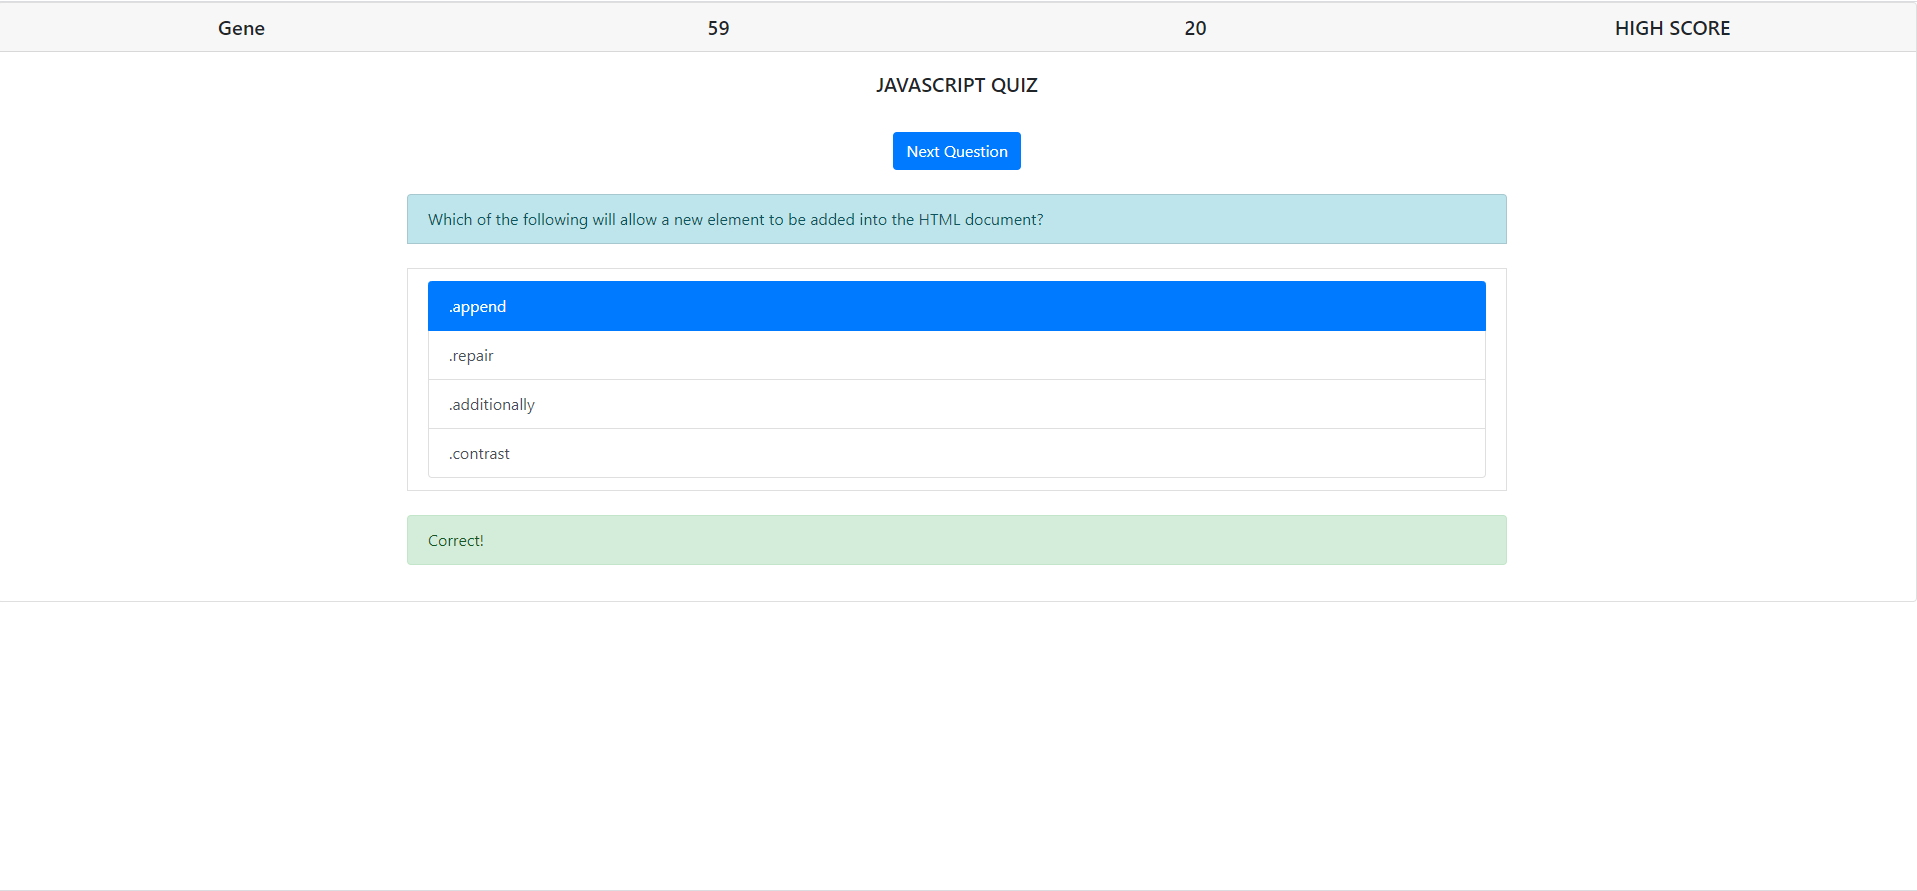
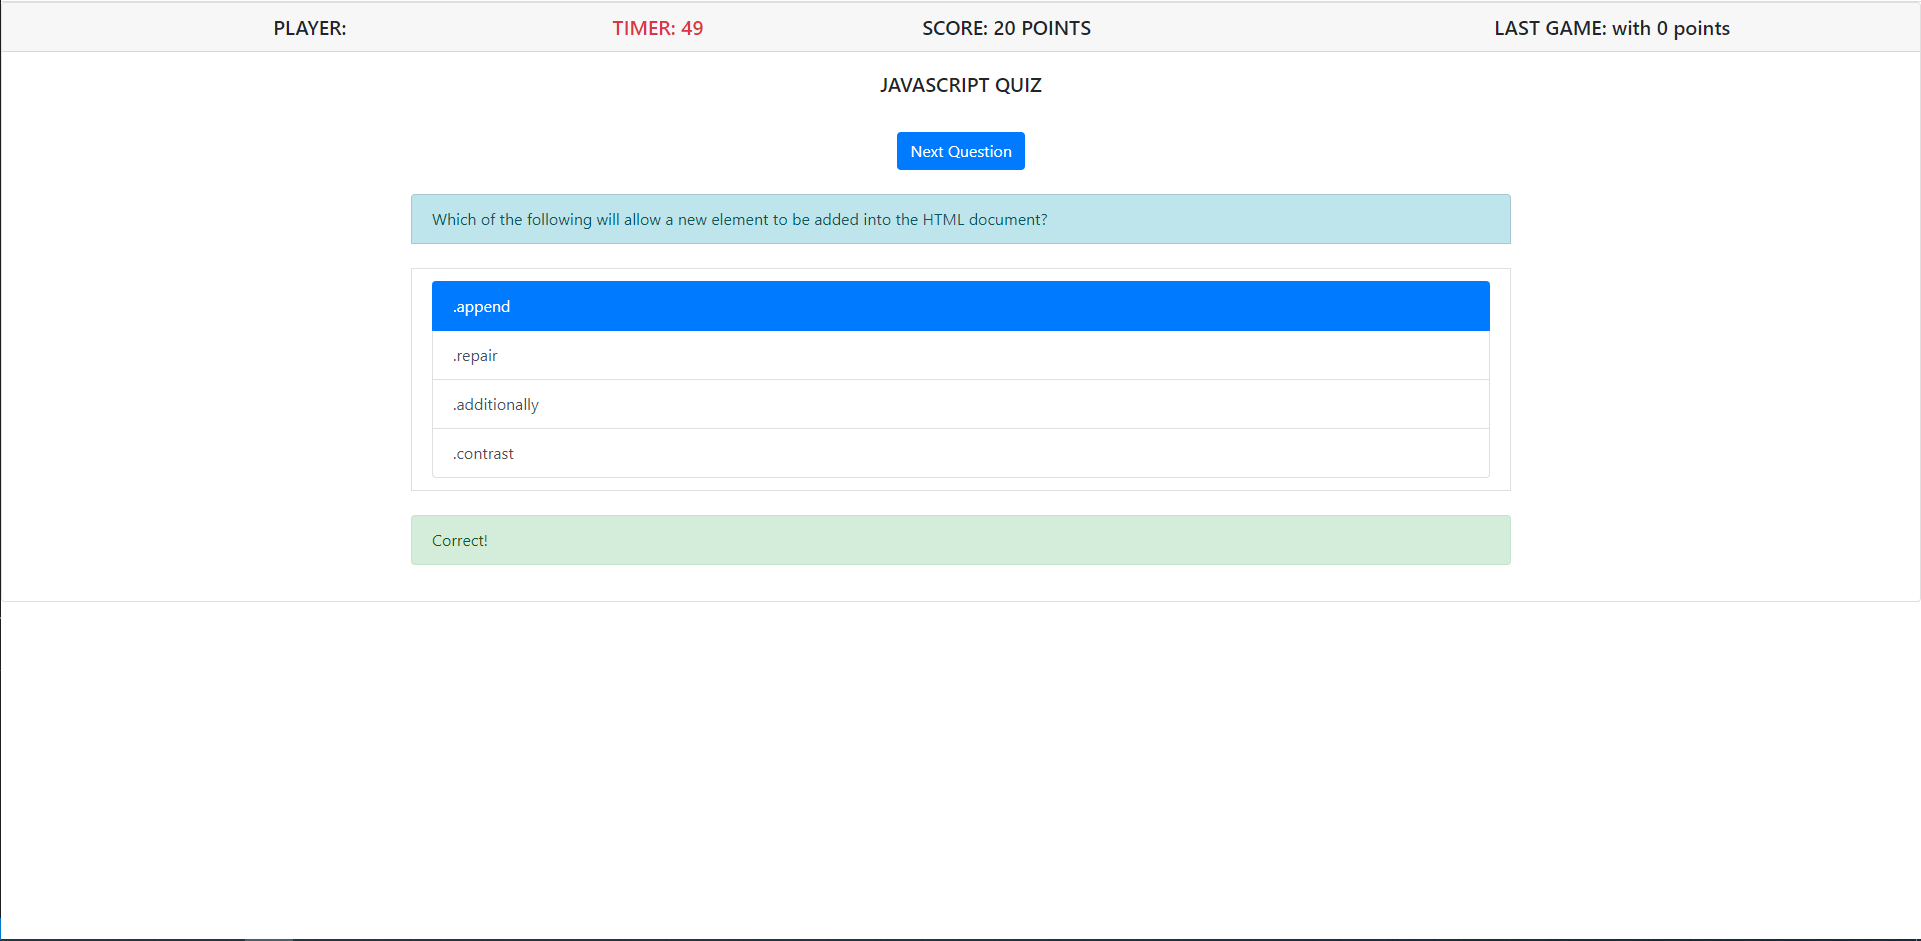
updated screenshots in README

diff --git a/script.js b/script.js
@@ -379,8 +379,7 @@ outAnswer.addEventListener("click", function (e) {
 var player = {
     name: "",
 };
-// Calls out user stats from storage and loads before game start
-userLastScore();
+
 inSubmit.addEventListener("click", gameStart);
 function gameStart(e) {
 
@@ -389,6 +388,7 @@ function gameStart(e) {
         player.name = prompt("Please enter your name.");
         blockOne();
         theTimer()
+        userLastScore();
         return inPlayer.textContent = "PLAYER: " + player.name,
             inSubmit.textContent = "Next Question",
             inSubmit.setAttribute("id", "submit1"),
@@ -458,9 +458,11 @@ function gameStart(e) {
         inSubmit.setAttribute("id", "restart");
         localStorage.setItem("name", JSON.stringify(player.name));
         localStorage.setItem("score", JSON.stringify(scores.total));
+
     }
     else if (e.target.matches("#restart")) {
         location.reload()
+
     };
 };
 
